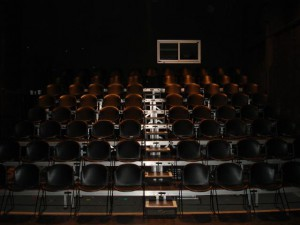
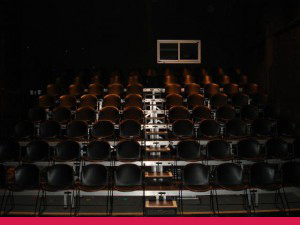
feedback aanpassingen

Changed region(s): [[0.0, 0.9644, 1.0, 1.0]]

diff --git a/Shiva Raghoenath Project C/index.html b/Shiva Raghoenath Project C/index.html
@@ -54,13 +54,13 @@ Ik zie nog geen enkele comment!!
 	<section>
 	<div class="row">
 		<div class="col-2">
-			<img src="img/lid-worden.jpg">
+			<img src="img/lid-worden.jpg" class="column2">
 			<h2>Lid worden?</h2>
-			<p>Wil je lid worden van Toneelgroep Imperium? Hier vind je alle informatie!</p>
+			<p>Wil je lid worden van Toneelgroep Imperium? Hier vind je alle informatie!<br><br><br></p>
 			<button class="ghost">Lees meer</button>
 		</div>
 		<div class="col-2">
-			<img src="img/over-iedereen.jpg">
+			<img src="img/over-iedereen.jpg" class="column2">
 			<h2>Over iedereen die er niet is</h2>
 			<p>Voor Toneelgroep Imperium maakte regisseur Laura Liefting een ontroerende en poëtische voorstelling over het onvermogen om te gaan met verdriet en verlies.</p>
 			<button class="ghost">Lees meer</button>
@@ -79,41 +79,41 @@ Ik zie nog geen enkele comment!!
 	<div class="col-3">
 	<img src="img/lidmaatschap.jpg">
 	<h2>Lidmaatschap</h2>
-	<p>Vul dan ons inschrijfformulier in en stuur het naar de voorzitter.</p>
+	<p>Vul dan ons inschrijfformulier in en stuur het naar de voorzitter.<br><br></p>
 	<button class="ghost">Lees meer</button>
 	</div>
 	<div class="col-3">
 	<img src="img/nieuwsbrief.jpg">
 	<h2>Nieuwsbrief</h2>
-	<p>Wilt u op de hoogte gehouden worden van Toneelgroep Imperium?</p>
+	<p>Wilt u op de hoogte gehouden worden van Toneelgroep Imperium?<br><br></p>
 	<button class="ghost">Lees meer</button>
 	</div>
 	</div>
 	</section>
 
-<footer> <!-- De footer van de pagina. -->
-	<div class="row">
-		<div class="col-footer">
-<p><b>VOLG ONS</b></p>
-			<a href="https://www.facebook.com/ToneelgroepImperium?fref=ts" target="_blank"><img src="img/facebook.svg" class="social-icon"></a>
-			<a href="https://twitter.com/imperiumtheater" target="_blank"><img src="img/twitter.svg" class="social-icon"></a>
-		</div>
+	<footer>
+		<div class="row">
+			<div class="col-footer">
+				<p class="footer-text">Volg ons</p>
+				<a href="https://www.facebook.com/ToneelgroepImperium?fref=ts" target="_blank"><img src="img/facebook.svg" class="social-icon"></a>
+				<a href="https://twitter.com/imperiumtheater" target="_blank"><img src="img/twitter.svg" class="social-icon"></a>
+			</div>
 
-		<div class="col-footer">
-			<p><b>CONTACT</b></p>
-			<p>Oude Vest 33e
-			<br>
-			2312 XR Leiden
-			<br>
-			071 5141035</p>
-		</div>
-		<div class="col-footer">
-			<a href="index.html"><img src="img/logo-wit.png" class="wittelogo"></a>
-		</div>
-		<div class="col-footer">
-			<p>©2018 Theater Imperium.</p>
-		</div>
-</footer>
+			<div class="col-footer">
+				<p class="footer-text">Contact</p>
+				<p>Oude Vest 33e
+					<br>
+					2312 XR Leiden
+					<br>
+					071 5141035</p>
+			</div>
+			<div class="col-footer">
+				<a href="index.html"><img src="img/logo-wit.png" class="wittelogo"></a>
+			</div>
+			<div class="col-footer">
+				<p>©2018 Theater Imperium.</p>
+			</div>
+	</footer>
 
 </body>
 </html>

diff --git a/Shiva Raghoenath Project C/contact.html b/Shiva Raghoenath Project C/contact.html
@@ -41,28 +41,30 @@
 <main>
 <p><a href="index.html" class="link">Home</a> > Contact</p>
 <h1>Contact</h1>
-<p>Via onderstaand formulier is het mogelijk om een bericht te sturen naar Imperium. Dit formulier is niet bedoeld voor het reserveren van kaarten. Dat kan via deze <a href="#" class="link">link.</a></p>
+<p>Via onderstaand formulier is het mogelijk om een bericht te sturen naar Imperium. Dit formulier is niet <br>bedoeld voor het reserveren van kaarten. Dat kan via deze <a href="#" class="link">link.</a></p>
 </main>
 
 <section>
 	<div class="row">
 		<div class="col-2">
-	<form method="get">
-				<label for="voornaam">Voornaam:</label>
+			<form method="get">
+				<label for="voornaam">Voornaam</label>
 				<input type="text" id="voornaam" name="voornaam" placeholder="Vul hier uw voornaam in.">
-				<label for="achternaam">Achternaam:</label>
+				<label for="achternaam">Achternaam</label>
 				<input type="text" id="achternaam" name="achternaam" placeholder="Vul hier uw achternaam in.">
-				<label for="onderwerp">Onderwerp:</label>
+				<label for="onderwerp">Onderwerp</label>
 				<input type="text" id="onderwerp" name="onderwerp" placeholder="Vul hier uw onderwerp in.">
-				<label for="onderwerp">Uw bericht:</label>
+				<label for="onderwerp">Uw bericht</label>
 				<textarea id="onderwerp" name="onderwerp" placeholder="Vul hier uw bericht in." style="height:240px"></textarea>
 				<input type="submit" value="Verzend">
-	</form>
+			</form>
 		</div>
+
 		<div class="col-2">
+			<div class="contact-box">
 	<h2>Route</h2>
 	<div>
-		<iframe width="45%" height="250" src="https://maps.google.com/maps?width=100%&height=600&hl=nl&q=Oude%20Vest%2033e+(Theater%20Imperium)&ie=UTF8&t=&z=17&iwloc=B&output=embed" frameborder="0" scrolling="no" marginheight="0" marginwidth="0">
+		<iframe height="200" width="240" src="https://maps.google.com/maps?width=100%&height=600&hl=nl&q=Oude%20Vest%2033e+(Theater%20Imperium)&ie=UTF8&t=&z=17&iwloc=B&output=embed" frameborder="0" scrolling="no" marginheight="0" marginwidth="0">
 		</iframe>
 	</div>
 	<p>Theater Imperium
@@ -72,20 +74,21 @@
 	2312 XR Leiden
 	<br>
 	071 5141035</p>
-		</div>
+	</div>
+	</div>
 	</div>
 </section>
 
 <footer>
 	<div class="row">
 		<div class="col-footer">
-			<p><b>VOLG ONS</b></p>
+			<p class="footer-text">Volg ons</p>
 			<a href="https://www.facebook.com/ToneelgroepImperium?fref=ts" target="_blank"><img src="img/facebook.svg" class="social-icon"></a>
 			<a href="https://twitter.com/imperiumtheater" target="_blank"><img src="img/twitter.svg" class="social-icon"></a>
 		</div>
 
 		<div class="col-footer">
-				<p><b>CONTACT</b></p>
+			<p class="footer-text">Contact</p>
 			<p>Oude Vest 33e
 				<br>
 				2312 XR Leiden

diff --git a/Shiva Raghoenath Project C/huren.html b/Shiva Raghoenath Project C/huren.html
@@ -45,33 +45,31 @@
 
 <section>
 	<form action="bevestiging.html" method="get" id="huren">
-		<div class="fieldset">
-			<label>Contactpersoon:</label>
+			<label>Contactpersoon</label>
 			<input type="text" name="naam" placeholder="Vul hier uw voor- en achternaam in.">
-			<label>Aanhef:</label>
+			<label>Aanhef</label>
 			<select name="aanhef" form="huren">
 				<option value="" disabled selected>Selecteer uw geslacht</option>
 				<option value="man">Man</option>
 				<option value="vrouw">Vrouw</option>
 			</select>
 			<br>
-			<label>Organisatie:</label>
+			<label>Organisatie</label>
 			<input type="text" name="organisatie" placeholder="Vul hier uw organisatie in.">
-			<label>Soort evenement:</label>
+			<label>Soort evenement</label>
 			<input type="text" name="evenement" placeholder="Vul hier uw soort evenement in.">
-			<label>E-mailadres:</label>
+			<label>E-mailadres</label>
 			<input type="email" name="email" placeholder="Vul hier uw e-mailadres in.">
-			<label>Telefoonnummer:</label>
+			<label>Telefoonnummer</label>
 			<input type="number" name="tel" placeholder="Vul hier uw telefoonnummer in.">
-		</div>
 
-		<label>Begintijd:</label>
+		<label>Begintijd</label>
 		<input type="time" name="tijd">
-		<label>Eindtijd:</label>
+		<label>Eindtijd</label>
 		<input type="time" name="tijd">
-		<label>Gewenste datum:</label>
+		<label>Gewenste datum</label>
 		<input type="date" name="datum">
-		<label>Faciliteiten:</label>
+		<label>Faciliteiten</label>
 		<input type="checkbox" name="toneel" value="toneel">Toneel
 		<input type="checkbox" name="decor" value="decor">Decor
 		<input type="checkbox" name="geluid" value="geluid">Geluid
@@ -90,13 +88,13 @@
 <footer>
 	<div class="row">
 		<div class="col-footer">
-			<p><b>VOLG ONS</b></p>
+			<p class="footer-text">Volg ons</p>
 			<a href="https://www.facebook.com/ToneelgroepImperium?fref=ts" target="_blank"><img src="img/facebook.svg" class="social-icon"></a>
 			<a href="https://twitter.com/imperiumtheater" target="_blank"><img src="img/twitter.svg" class="social-icon"></a>
 		</div>
 
 		<div class="col-footer">
-			<p><b>CONTACT</b></p>
+			<p class="footer-text">Contact</p>
 			<p>Oude Vest 33e
 				<br>
 				2312 XR Leiden

diff --git a/Shiva Raghoenath Project C/faciliteiten.html b/Shiva Raghoenath Project C/faciliteiten.html
@@ -49,7 +49,7 @@
 <p>Het toneel heeft een speelvlak van 6 meter diep en 7 meter breed waarboven op ongeveer 6 meter een grit voor het ophangen van spots is gemaakt. Aan 3 zijden van het speelvlak hangen tot aan het grit zwarte gordijnen. Het zwarte achterdoek heeft rechts een opening naar een kleine ruimte voor eventuele opkomsten. De vloer is standaard voorzien worden van een zwarte balletvloer.</p>
 	</div>
 	<div class="col-2">
-<img src="img/toneel.jpg">
+<img src="img/toneel.jpg" class="faciliteiten-img">
 	</div>
 </div>
 </article>
@@ -229,13 +229,13 @@ img heeft verplichte attributen en zou je kunnen voorzien van figure tags
 <footer>
 	<div class="row">
 		<div class="col-footer">
-			<p><b>VOLG ONS</b></p>
+			<p class="footer-text">Volg ons</p>
 			<a href="https://www.facebook.com/ToneelgroepImperium?fref=ts" target="_blank"><img src="img/facebook.svg" class="social-icon"></a>
 			<a href="https://twitter.com/imperiumtheater" target="_blank"><img src="img/twitter.svg" class="social-icon"></a>
 		</div>
 
 		<div class="col-footer">
-			<p><b>CONTACT</b></p>
+			<p class="footer-text">Contact</p>
 			<p>Oude Vest 33e
 				<br>
 				2312 XR Leiden

diff --git a/Shiva Raghoenath Project C/css/style.css b/Shiva Raghoenath Project C/css/style.css
@@ -22,18 +22,11 @@ button{
 }
 
 main{
-	padding: 0px 35px;
+	padding: 0px 33px;
 }
 
 button:hover{
 	opacity: 0.3;
-}
-
-.fieldset{
-	background-color: #D61549;
-	border: none;
-	padding: 50px;
-	color: #FFF;
 }
 
 footer{
@@ -169,6 +162,7 @@ dd {
 	border: 1px solid #D61549;
 	color: #D61549;
 	border-radius: 6px;
+	float: right;
 }
 
 .logo img{
@@ -303,6 +297,7 @@ input[type=submit]{
 	padding: 10px 20px;
 	text-transform: uppercase;
 	transition:all 0.3s ease;
+	float: right;
 }
 
 input[type=submit]:hover{
@@ -368,4 +363,19 @@ a.disabled:hover{
 
 .date2{
 	background-color: #AEAEAE;
+}
+
+.footer-text{
+	text-transform: uppercase;
+}
+
+.contact-box{
+	background-color: #D61549;
+	color: #FFFFFF;
+	padding: 15px;
+	width: 50%;
+}
+
+.contact-box h2{
+	color: #FFFFFF;
 }

diff --git a/Shiva Raghoenath Project C/agenda.html b/Shiva Raghoenath Project C/agenda.html
@@ -121,13 +121,13 @@ Is de opsomming van data geen lijst?
 	<footer>
 		<div class="row">
 			<div class="col-footer">
-				<p><b>VOLG ONS</b></p>
+				<p class="footer-text">Volg ons</p>
 				<a href="https://www.facebook.com/ToneelgroepImperium?fref=ts" target="_blank"><img src="img/facebook.svg" class="social-icon"></a>
 				<a href="https://twitter.com/imperiumtheater" target="_blank"><img src="img/twitter.svg" class="social-icon"></a>
 			</div>
 
 			<div class="col-footer">
-				<p><b>CONTACT</b></p>
+				<p class="footer-text">Contact</p>
 				<p>Oude Vest 33e
 					<br>
 					2312 XR Leiden

diff --git a/Shiva Raghoenath Project C/bevestiging.html b/Shiva Raghoenath Project C/bevestiging.html
@@ -78,13 +78,13 @@ Voorzieningen: ...</p>
 <footer>
 	<div class="row">
 		<div class="col-footer">
-			<p><b>VOLG ONS</b></p>
+			<p class="footer-text">Volg ons</p>
 			<a href="https://www.facebook.com/ToneelgroepImperium?fref=ts" target="_blank"><img src="img/facebook.svg" class="social-icon"></a>
 			<a href="https://twitter.com/imperiumtheater" target="_blank"><img src="img/twitter.svg" class="social-icon"></a>
 		</div>
 
 		<div class="col-footer">
-			<p><b>CONTACT</b></p>
+			<p class="footer-text">Contact</p>
 			<p>Oude Vest 33e
 				<br>
 				2312 XR Leiden

diff --git a/Shiva Raghoenath Project C/fotoboek.html b/Shiva Raghoenath Project C/fotoboek.html
@@ -97,13 +97,13 @@
 <footer>
 	<div class="row">
 		<div class="col-footer">
-			<p><b>VOLG ONS</b></p>
+			<p class="footer-text">Volg ons</p>
 			<a href="https://www.facebook.com/ToneelgroepImperium?fref=ts" target="_blank"><img src="img/facebook.svg" class="social-icon"></a>
 			<a href="https://twitter.com/imperiumtheater" target="_blank"><img src="img/twitter.svg" class="social-icon"></a>
 		</div>
 
 		<div class="col-footer">
-			<p><b>CONTACT</b></p>
+			<p class="footer-text">Contact</p>
 			<p>Oude Vest 33e
 				<br>
 				2312 XR Leiden

diff --git a/Shiva Raghoenath Project C/informatie.html b/Shiva Raghoenath Project C/informatie.html
@@ -94,13 +94,13 @@
 <footer>
 	<div class="row">
 		<div class="col-footer">
-			<p><b>VOLG ONS</b></p>
+			<p class="footer-text">Volg ons</p>
 			<a href="https://www.facebook.com/ToneelgroepImperium?fref=ts" target="_blank"><img src="img/facebook.svg" class="social-icon"></a>
 			<a href="https://twitter.com/imperiumtheater" target="_blank"><img src="img/twitter.svg" class="social-icon"></a>
 		</div>
 
 		<div class="col-footer">
-			<p><b>CONTACT</b></p>
+			<p class="footer-text">Contact</p>
 			<p>Oude Vest 33e
 				<br>
 				2312 XR Leiden

diff --git a/Shiva Raghoenath Project C/verzending.html b/Shiva Raghoenath Project C/verzending.html
@@ -52,13 +52,13 @@
 <footer>
 	<div class="row">
 		<div class="col-footer">
-			<p><b>VOLG ONS</b></p>
+			<p class="footer-text">Volg ons</p>
 			<a href="https://www.facebook.com/ToneelgroepImperium?fref=ts" target="_blank"><img src="img/facebook.svg" class="social-icon"></a>
 			<a href="https://twitter.com/imperiumtheater" target="_blank"><img src="img/twitter.svg" class="social-icon"></a>
 		</div>
 
 		<div class="col-footer">
-			<p><b>CONTACT</b></p>
+			<p class="footer-text">Contact</p>
 			<p>Oude Vest 33e
 				<br>
 				2312 XR Leiden
